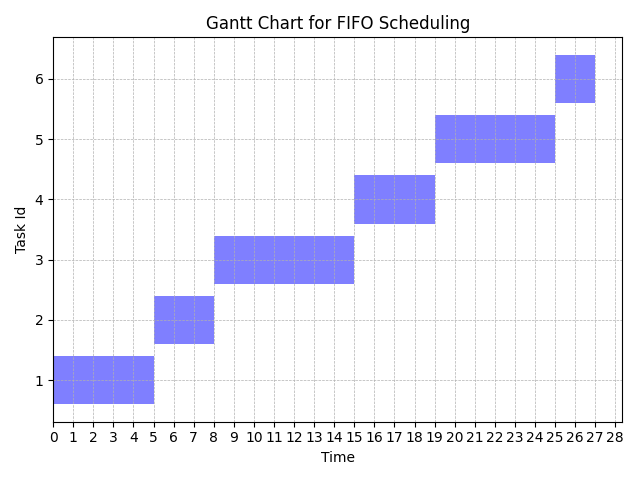
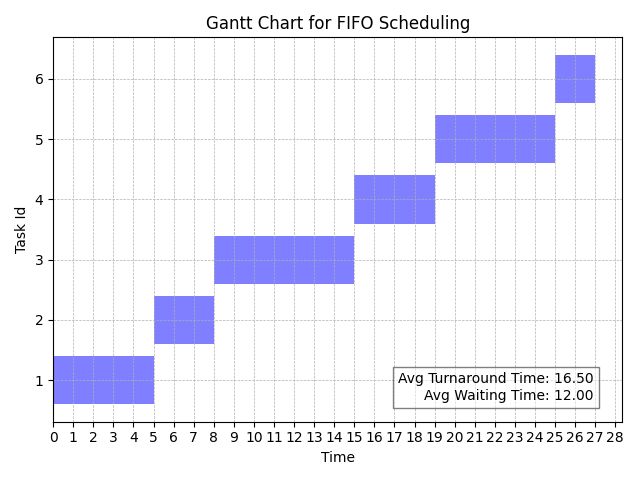
chore: updates readme and graphs

Changed region(s): [[0.5938, 0.75, 0.9375, 0.875]]

diff --git a/src/gui/gantt_chat.py b/src/gui/gantt_chat.py
@@ -4,43 +4,75 @@ import os
 import sys
 from datetime import datetime, timedelta
 
+
 def create_gantt_chart(yaml_file, output_folder):
-    with open(yaml_file, 'r') as file:
+    with open(yaml_file, "r") as file:
         data = yaml.safe_load(file)
 
-    algorithm_name = data['algorithmName']
-    intervals = data['intervals']
+    algorithm_name = data["algorithmName"]
+    intervals = data["intervals"]
+    completed_tasks = data["completed_tasks"]
+
+    # Calculate average turnaround and waiting times
+    total_turnaround_time = sum(task["turnaround_time"] for task in completed_tasks)
+    total_waiting_time = sum(task["waiting_time"] for task in completed_tasks)
+    average_turnaround_time = total_turnaround_time / len(completed_tasks)
+    average_waiting_time = total_waiting_time / len(completed_tasks)
 
     fig, ax = plt.subplots()
 
     # Plot intervals
     for interval in intervals:
-        start_time = interval['start_time']
-        end_time = interval['end_time']
-        task_id = interval['task_id']
-        
-        ax.barh(task_id, end_time - start_time, left=start_time, color='b', align='center', alpha=0.5)
+        start_time = interval["start_time"]
+        end_time = interval["end_time"]
+        task_id = interval["task_id"]
 
-    plt.xlabel('Time')
-    plt.ylabel('Task Id')
-    plt.title(f'Gantt Chart for {algorithm_name} Scheduling')
+        ax.barh(
+            task_id,
+            end_time - start_time,
+            left=start_time,
+            color="b",
+            align="center",
+            alpha=0.5,
+        )
+
+    plt.xlabel("Time")
+    plt.ylabel("Task Id")
+    plt.title(f"Gantt Chart for {algorithm_name} Scheduling")
+
+    # Display average turnaround and waiting times on the graph
+    text_str = f"Avg Turnaround Time: {average_turnaround_time:.2f}\nAvg Waiting Time: {average_waiting_time:.2f}"
+    plt.text(
+        0.95,
+        0.05,
+        text_str,
+        transform=ax.transAxes,
+        fontsize=10,
+        verticalalignment="bottom",
+        horizontalalignment="right",
+        bbox=dict(facecolor="white", alpha=0.5),
+    )
 
     # Set x-axis and y-axis to grid lines each unit
     ax.xaxis.set_major_locator(plt.MultipleLocator(1))
     ax.yaxis.set_major_locator(plt.MultipleLocator(1))
-    plt.grid(True, which='both', axis='both', linestyle='--', linewidth=0.5)
+    plt.grid(True, which="both", axis="both", linestyle="--", linewidth=0.5)
     plt.tight_layout()
 
     # Save the chart in the same directory as the YAML file
-    output_file = os.path.join(output_folder, os.path.basename(yaml_file).replace('.yaml', '.png'))
+    output_file = os.path.join(
+        output_folder, os.path.basename(yaml_file).replace(".yaml", ".png")
+    )
     plt.savefig(output_file)
     plt.close()
 
+
 def main(input_folder):
     for filename in os.listdir(input_folder):
-        if filename.endswith('.yaml'):
+        if filename.endswith(".yaml"):
             yaml_file = os.path.join(input_folder, filename)
             create_gantt_chart(yaml_file, input_folder)
+
 
 if __name__ == "__main__":
     if len(sys.argv) != 2:

diff --git a/README.md b/README.md
@@ -94,4 +94,7 @@ Explore the example task configurations in the `examples` directory. These YAML 
 
 The `run_pipeline.sh` script runs the C++ executable to generate YAML files and then uses a Python script to create Gantt charts for each YAML file. Ensure the `outputs` directory is present and set up as needed.
 
+![FIFO Gantt Chart](outputs/FIFO_completed_tasks.png)
+![SJF Gantt Chart](outputs/SJF_completed_tasks.png)
+
 --- 
